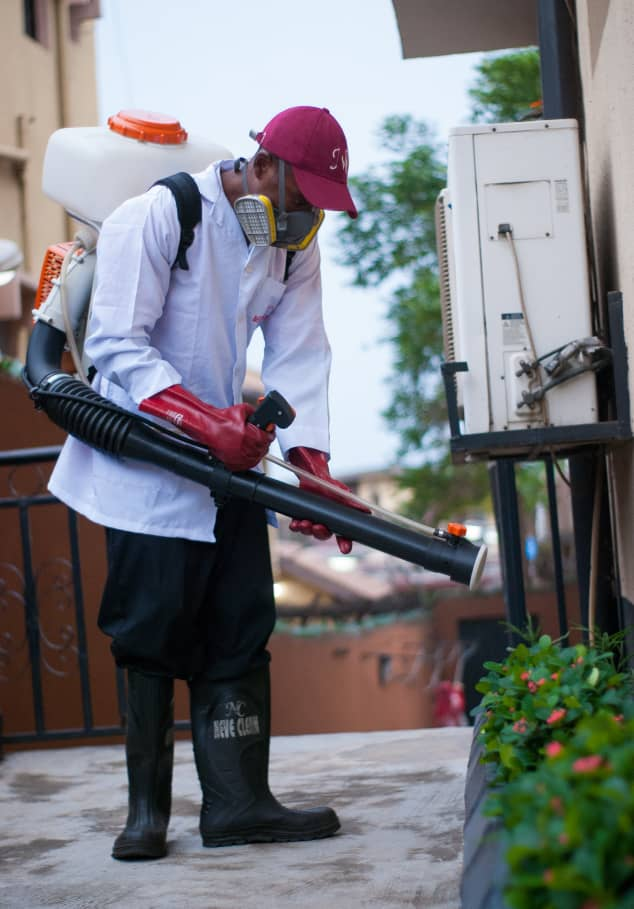
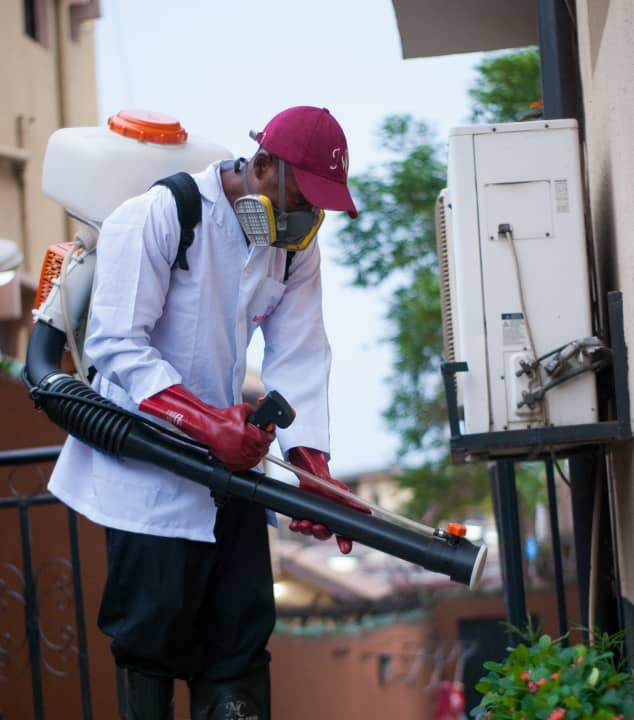
Updates Images

diff --git a/index.html b/index.html
@@ -52,7 +52,7 @@
     </div>
     <div class="hero-media reveal in">
       <div class="glass">
-        <img src="Media/photos/hero-living-room.jpg" alt="Spotless luxury living room cleaned by Manor Cares">
+        <img src="Media/photos/images (5).jpeg" alt="Spotless luxury living room cleaned by Manor Cares">
       </div>
       <div class="glass float-card">
         <span class="icon"><i class="fa-solid fa-shield-halved"></i></span>
@@ -197,12 +197,12 @@
     
     <div class="gallery-grid reveal">
       <div class="image-holder"><img src="Media/photos/modern-kitchen.jpg" alt="Sparkling clean modern kitchen"></div>
-      <div class="image-holder"><img src="Media/photos/bathroom-cleaning.jpg" alt="Immaculate bathroom cleaning result"></div>
-      <div class="image-holder"><img src="Media/photos/office-interior.jpg" alt="Clean corporate office interior"></div>
-      <div class="image-holder"><img src="Media/photos/consultation-meeting.jpg" alt="Streak-free window cleaning"></div>
-      <div class="image-holder"><img src="Media/photos/deep-cleaning.jpg" alt="Professional bathroom sanitation"></div>
-      <div class="image-holder"><img src="Media/photos/deep-cleaning.jpg" alt="Professional bathroom sanitation"></div>
-      <div class="image-holder"><img src="Media/photos/deep-cleaning.jpg" alt="Professional bathroom sanitation"></div>      
+      <div class="image-holder"><img src="Media/photos/images (10).jpeg" alt="Immaculate bathroom cleaning result"></div>
+      <div class="image-holder"><img src="Media/photos/images (12).jpeg" alt="Clean corporate office interior"></div>
+      <div class="image-holder"><img src="Media/photos/images (11).jpeg" alt="Streak-free window cleaning"></div>
+      <div class="image-holder"><img src="Media/photos/images (14).jpeg" alt="Professional bathroom sanitation"></div>
+      <div class="image-holder"><img src="Media/photos/Ologo-7-837x1024.jpg" alt="Professional bathroom sanitation"></div>
+      <div class="image-holder"><img src="Media/photos/1dded257-c088-4c8a-8bbb-bbaaa4619079.avif" alt="Professional bathroom sanitation"></div>      
       <div class="image-holder"><img src="Media/photos/deep-cleaning.jpg" alt="Professional bathroom sanitation"></div>      
     </div>
 

diff --git a/services.html b/services.html
@@ -58,22 +58,22 @@
       </div>
       
       <div class="glass media-card reveal">
-        <div class="media"><img src="Media/photos/disinfection.jpg" alt="Disinfection and sanitization service"></div>
+        <div class="media"><img src="Media/photos/WhatsApp-Image-2021-03-10-at-9.11.10-PM-1.jpeg" alt="Disinfection and sanitization service"></div>
         <div class="body"><span class="tag">Health & Wellness</span><h3>Funmigation & Control</h3><p style="text-align: justify;">Hospital-grade and deep disinfectants for high-touch surfaces, rooms and shared spaces.</p></div>
       </div>
 
       <div class="glass media-card reveal">
-        <div class="media"><img src="Media/photos/bathroom-cleaning.jpg" alt="Carpet and upholstery cleaning"></div>
+        <div class="media"><img src="Media/photos/98790ou0.jpg" alt="Carpet and upholstery cleaning"></div>
         <div class="body"><span class="tag">Institutions</span><h3>Schools & Hostels</h3><p style="text-align: justify;">Deep cleaning of school facilities, accommodations, libraries and all related buildings for healthy living.</p></div>
       </div>
             
       <div class="glass media-card reveal">
-        <div class="media"><img src="Media/photos/post-construction.jpg" alt="Post construction cleaning"></div>
+        <div class="media"><img src="Media/photos/images (6).jpeg" alt="Post construction cleaning"></div>
         <div class="body"><span class="tag">Renovation</span><h3>Post-Construction</h3><p style="text-align: justify;">Dust and debris removal that reveals the finished space in glittering, pristine & market-ready condition.</p></div>
       </div>
 
       <div class="glass media-card reveal">
-        <div class="media"><img src="Media/photos/window-cleaning.jpg" alt="Window cleaning service"></div>
+        <div class="media"><img src="Media/photos/a17a7d48.avif" alt="Window cleaning service"></div>
         <div class="body"><span class="tag">On-Demand</span><h3>User-Customization</h3><p style="text-align: justify;">Articulated & detailed, user-customized cleaning specifications that reveals the expected user's desires.</p></div>
       </div>
       

diff --git a/about.html b/about.html
@@ -50,7 +50,7 @@
         Today, our plan is simple: consult, customize, clean, and repeat which helps every client enjoy a consistently spotless, healthy space without lifting a finger.</p>
     </div>
     <div class="image-holder reveal">
-      <img src="Media/photos/consultation-meeting.jpg" alt="Manor Cares team planning a client's cleaning strategy">
+      <img src="Media/photos/cleaning.jpg" alt="Manor Cares team planning a client's cleaning strategy">
     </div>
   </div>
 </section>
@@ -118,7 +118,7 @@
     </div>
     <div class="image-holder reveal">
       <img src="Media/photos/corporate-office-building.jpg" alt="Manor Cares corporate office building"> <br><br><br>
-      <img src="Media/photos/corporate-office-building.jpg" alt="Manor Cares corporate office building">       
+      <img src="Media/photos/mmmmh.jpg" alt="Manor Cares corporate office building">       
     </div>
   </div>
 </section>
